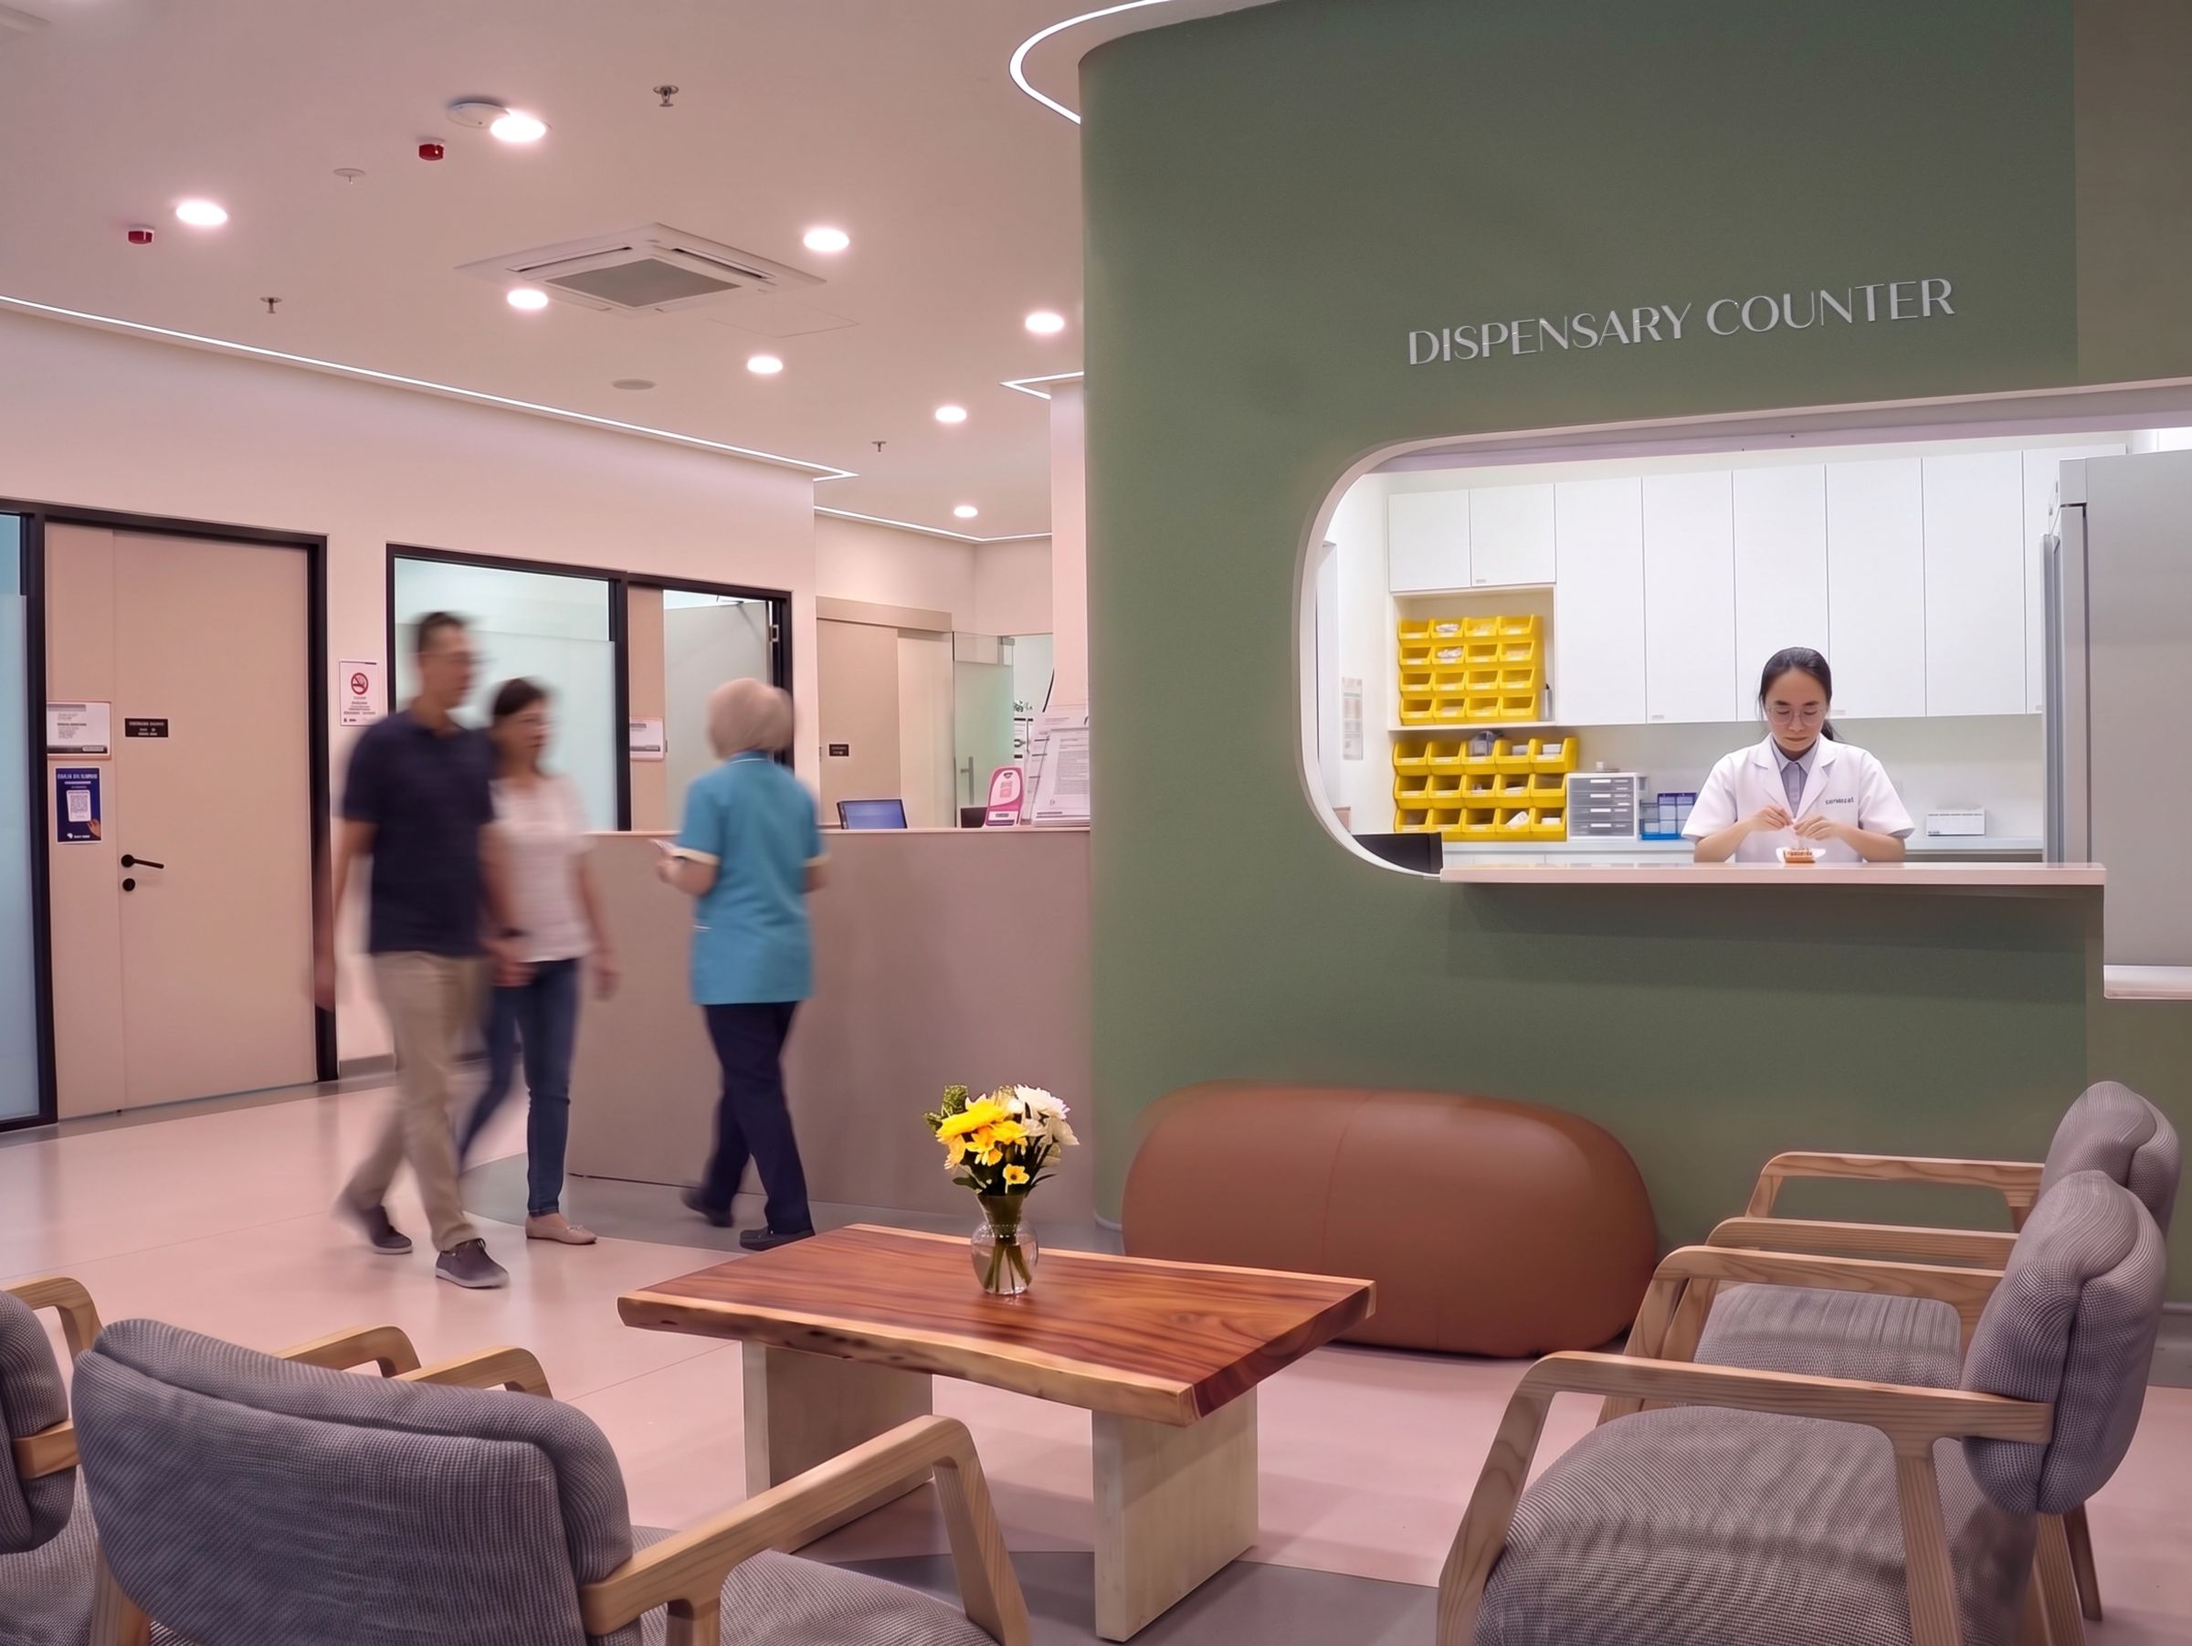
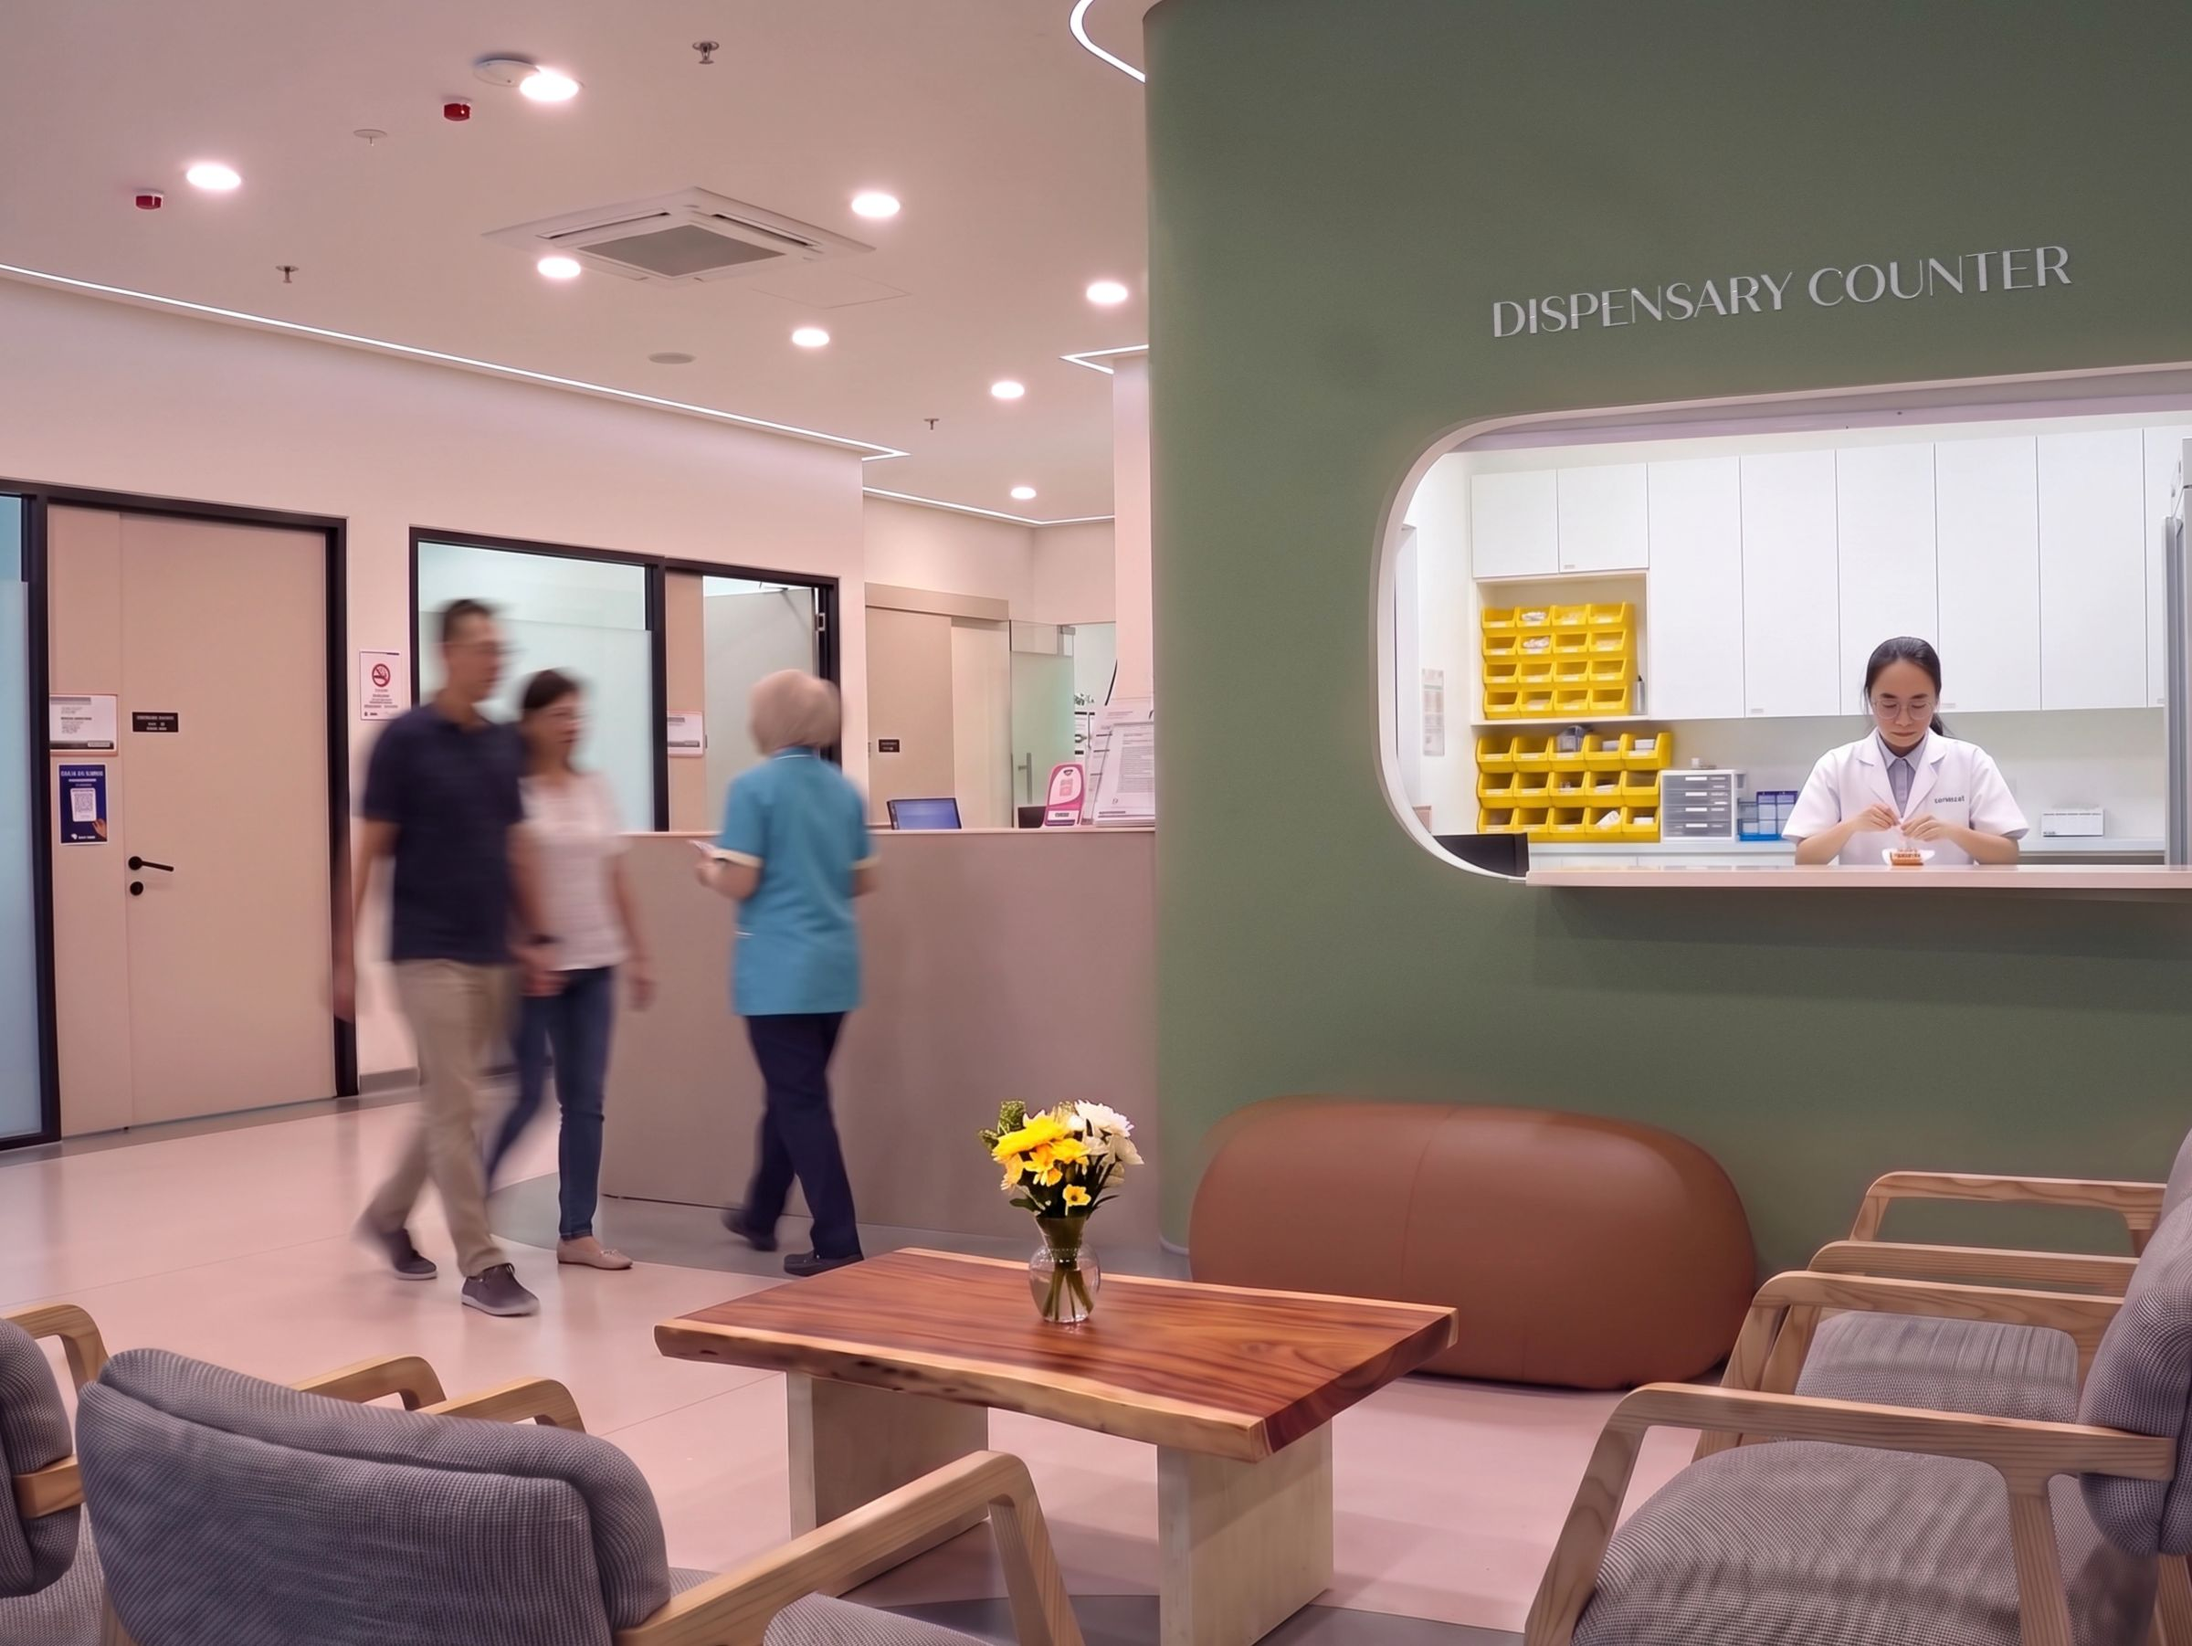
Home hero: updated Curie Lounge Area edit

diff --git a/index.html b/index.html
@@ -147,7 +147,7 @@
     <!-- Hero -->
 <!-- Photo: Curie Lounge Area (21 Nov photoshoot, Selected Photos), supplied 24 Nov. Intro: the photo fades up from white and settles from a slight zoom; the headline rises in after it (footer.html intro script). -->
 <section class="page-hero home-hero overflow-hidden bg-white !h-[520px] lg:!h-[640px]">
-  <div class="home-hero__img" style="background-image: url('assets/img/photoshoot/home-hero-lounge.jpg'); background-position: 50% 18%;" aria-hidden="true" data-intro-fade></div>
+  <div class="home-hero__img" style="background-image: url('assets/img/photoshoot/home-hero-lounge.jpg?v=2'); background-position: 50% 18%;" aria-hidden="true" data-intro-fade></div>
   <h1 class="max-w-[900px] !text-[32px] !leading-[44px] sm:!text-[48px] sm:!leading-[60px]" data-intro>Cancer Doesn't Spell The End<br />Spring Will Come</h1>
 </section>
 

diff --git a/src/pages/home.html b/src/pages/home.html
@@ -1,7 +1,7 @@
 <!-- Hero -->
 <!-- Photo: Curie Lounge Area (21 Nov photoshoot, Selected Photos), supplied 24 Nov. Intro: the photo fades up from white and settles from a slight zoom; the headline rises in after it (footer.html intro script). -->
 <section class="page-hero home-hero overflow-hidden bg-white !h-[520px] lg:!h-[640px]">
-  <div class="home-hero__img" style="background-image: url('assets/img/photoshoot/home-hero-lounge.jpg'); background-position: 50% 18%;" aria-hidden="true" data-intro-fade></div>
+  <div class="home-hero__img" style="background-image: url('assets/img/photoshoot/home-hero-lounge.jpg?v=2'); background-position: 50% 18%;" aria-hidden="true" data-intro-fade></div>
   <h1 class="max-w-[900px] !text-[32px] !leading-[44px] sm:!text-[48px] sm:!leading-[60px]" data-intro>Cancer Doesn't Spell The End<br />Spring Will Come</h1>
 </section>
 
